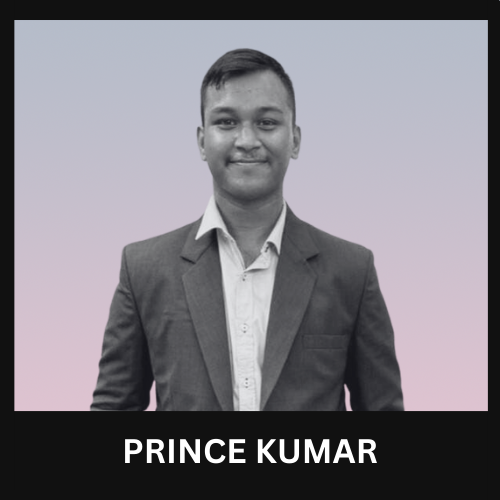
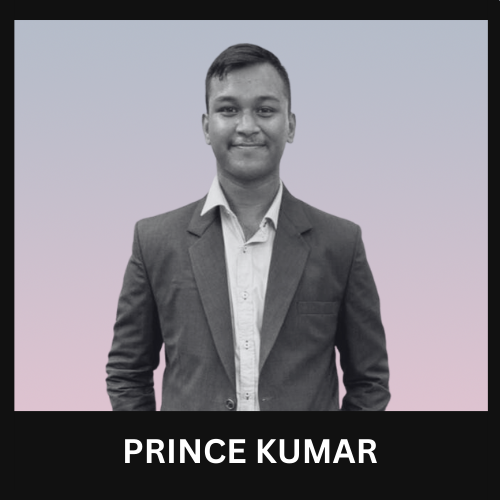
chnages

Changed region(s): [[0.18, 0.06, 0.81, 0.84], [0.6, 0.51, 0.63, 0.54]]

diff --git a/team.html b/team.html
@@ -491,19 +491,10 @@
                             <div class="de-team-list">
                               <div class="team-pic">
                                 <img
-                                  src="images/team2/E (27).jpeg"
+                                  src="images/team2/E (15).png"
                                   class="img-responsive"
                                   alt=""
                                 />
-                              </div>
-                              <div class="team-desc">
-                                <h3>Prince Kumar</h3>
-                                <p class="lead">Lead Orgainiser</p>
-                                <div class="small-border"></div>
-            
-                                <div class="social">
-                                  <a href="https://www.linkedin.com/in/hey-its-rohan-kumar/" target="_blank"><i class="fa fa-linkedin fa-lg"></i></a>
-                                </div>
                               </div>
                             </div>
                             <!-- team close -->
